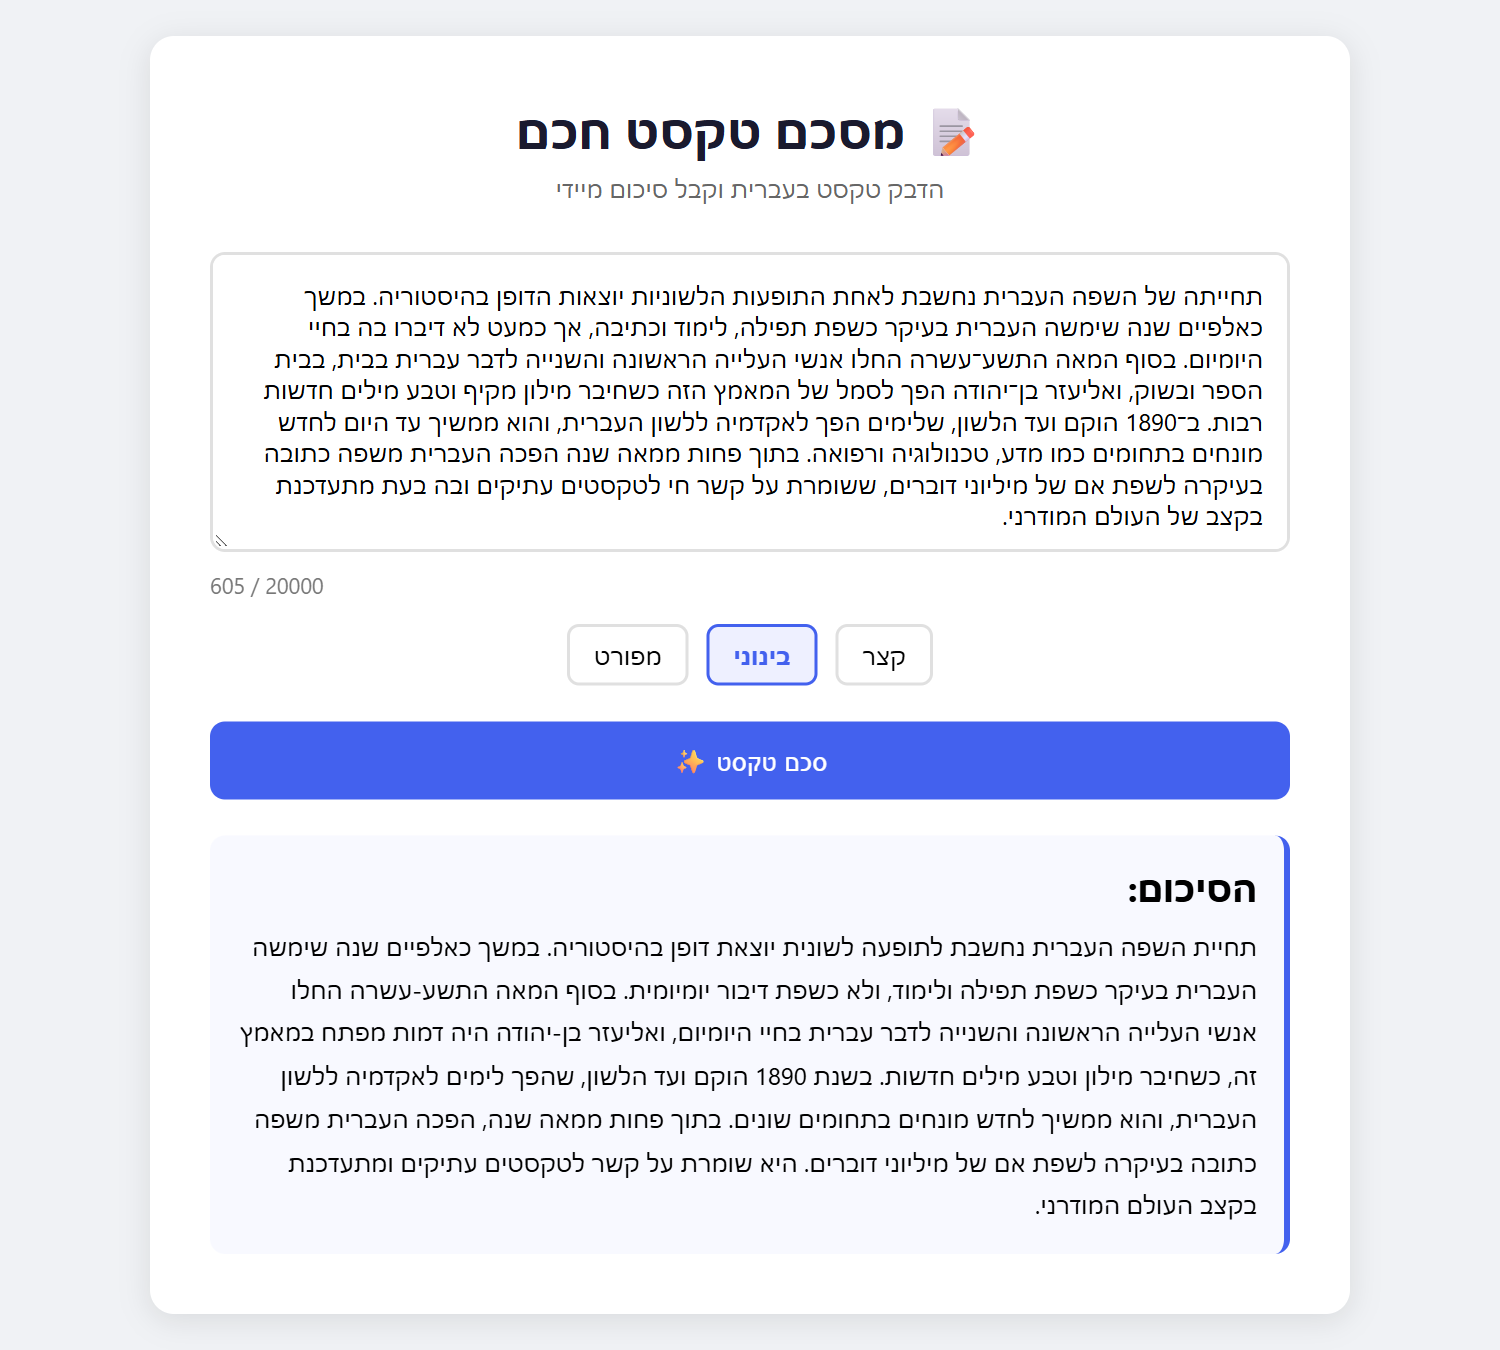
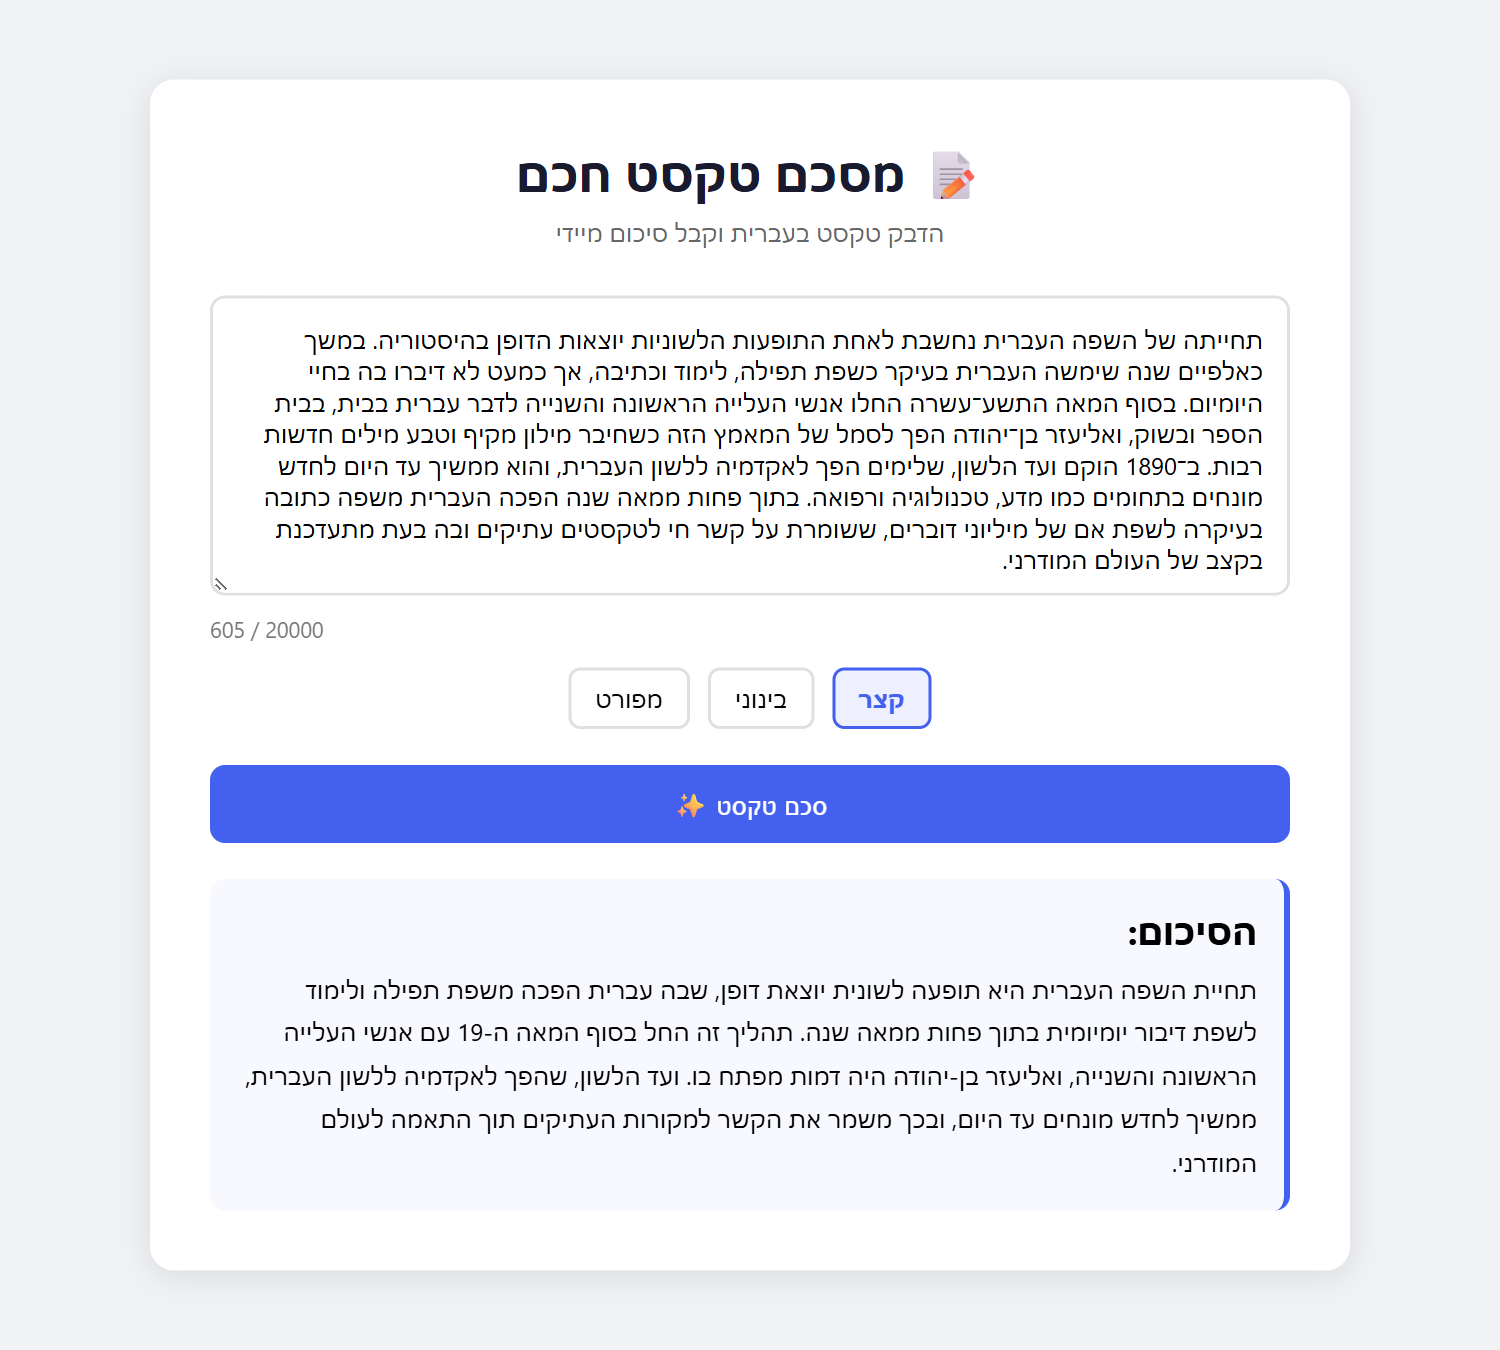
docs: show a short summary in the screenshot

Changed region(s): [[0.1227, 0.4356, 0.8587, 0.9022], [0.1227, 0.0622, 0.8587, 0.4667], [0.1227, 0.9333, 0.8893, 0.9644]]

diff --git a/README.md b/README.md
@@ -7,7 +7,7 @@ FastAPI. Paste a text, pick a summary length, and get a fluent Hebrew summary in
 fully right-to-left interface that works even with JavaScript turned off.
 
 <p align="center">
-  <img src="docs/screenshot.png" alt="A Hebrew paragraph about the revival of the Hebrew language, summarized at medium length" width="700">
+  <img src="docs/screenshot.png" alt="A Hebrew paragraph about the revival of the Hebrew language, summarized in three sentences" width="700">
 </p>
 
 ## Features
